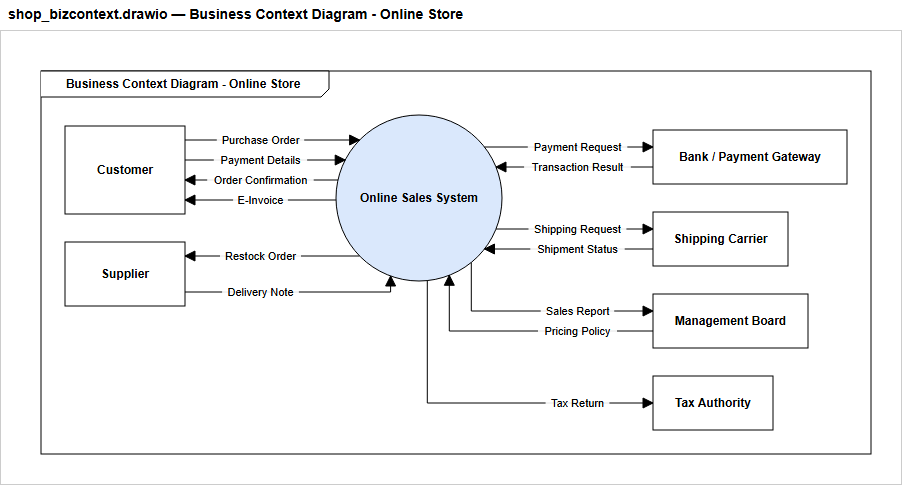
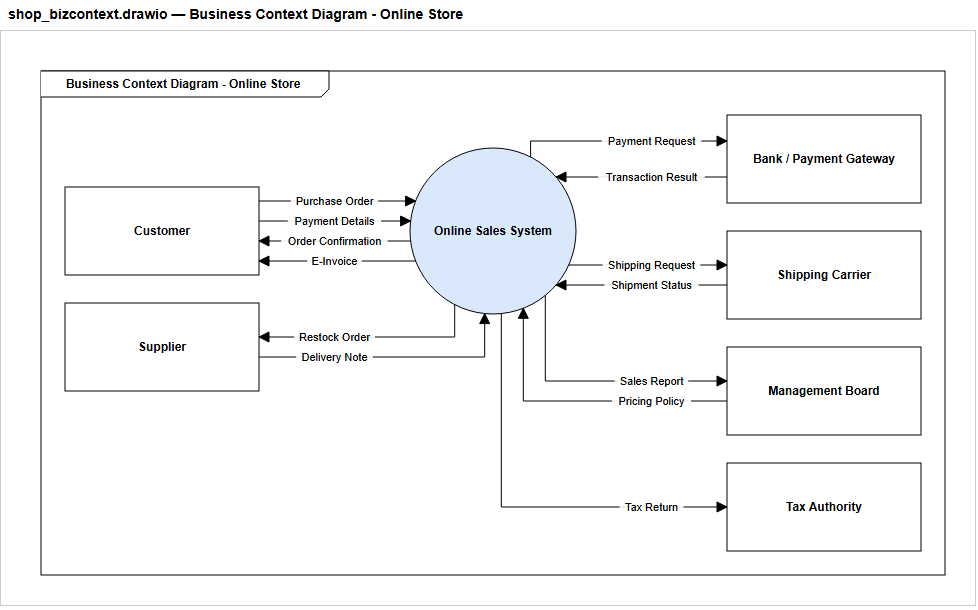
feat(bizcontext): external boxes share one size by default
Every external entity box takes the width of the widest name and the height of
the box with the most flows (layout re-solved until heights settle), flows stay
centred on each box. "uniformSize": false restores content-sized boxes.
Test, spec-format / uml-bizcontext docs and README preview updated.

Changed region(s): [[0.031, 0.092, 0.9912, 0.9509], [0.0, 0.0, 0.5265, 0.0613], [0.0, 0.9816, 1.0, 1.0]]

diff --git a/comet-uml-drawio/scripts/uml2drawio.py b/comet-uml-drawio/scripts/uml2drawio.py
@@ -1780,6 +1780,13 @@ def build_bizcontext(spec, warns, origin):
         w, h = text_size("\n".join(st + nm), 12, True)
         base_h[s["id"]] = h
         box[s["id"]] = [max(120.0, w + 28), max(54.0, h + 24), st, nm, []]
+    # mac dinh moi hop cung kich thuoc (rong/cao = hop lon nhat); "uniformSize": false -> hop vua noi dung
+    uniform = spec.get("uniformSize", True) is not False
+    if uniform and box:
+        bw = max(v[0] for v in box.values())
+        for v in box.values():
+            v[0] = bw
+    hmin = [0.0]   # chieu cao toi thieu chung cua hop (tang dan toi khi on dinh)
 
     # ---- gan duong: moi phia xet tat ca duong theo thu tu tu tren xuong (dem chung ca cot). Mot nhom lien tiep
     #      o giua (duong i..j-1) cam thang vao hong hinh tron (|y| <= BAND r); cac duong tren gap xuong cam vao
@@ -1799,7 +1806,7 @@ def build_bizcontext(spec, warns, origin):
                     if g + k in (i, j):
                         cur += SPLIT
                 o.append(cur)
-            h = max(54.0, base_h[e] + 24, cur + 28)
+            h = max(54.0, base_h[e] + 24, cur + 28, hmin[0])
             hts[e], offs[e] = h, [x - cur / 2 for x in o]
             ys += [(top + h / 2 + x, e, k) for k, x in enumerate(offs[e])]
             top += h + GY
@@ -1860,12 +1867,17 @@ def build_bizcontext(spec, warns, origin):
                     return hts, offs, cys, turn
         return None
 
-    r = math.ceil(max(60.0, th / 2 * 1.6 + 12, math.hypot(tw, th) / 2 + 14))
     while True:
-        res = {sd: solve_side(c, r) for sd, c in cols.items() if c}
-        if all(v is not None for v in res.values()):
+        r = math.ceil(max(60.0, th / 2 * 1.6 + 12, math.hypot(tw, th) / 2 + 14))
+        while True:
+            res = {sd: solve_side(c, r) for sd, c in cols.items() if c}
+            if all(v is not None for v in res.values()):
+                break
+            r += 2
+        hmax = max([h for v in res.values() for h in v[0].values()] or [0.0])
+        if not uniform or hmax <= hmin[0] + 0.01:
             break
-        r += 2
+        hmin[0] = hmax   # xep lai voi moi hop cao bang hop cao nhat
     a = b = r   # hinh tron
     cy, turn = {}, {}   # turn: (ext, j) -> x re (so duong, ca 2 phia)
     for sd, (hts, offs, cys, tn) in res.items():

diff --git a/comet-uml-drawio/tests/run_tests.py b/comet-uml-drawio/tests/run_tests.py
@@ -1016,6 +1016,20 @@ class TestGenerator(unittest.TestCase):
         _, _, G2 = self.clean(sp2)
         self.assertLessEqual(rects(G2)["thue"][2], rects(G2)["shop"][0])
 
+    def test_bizcontext_uniform_box_size(self):
+        # mac dinh moi hop ben ngoai cung rong/cao (hop lon nhat); "uniformSize": false -> hop vua noi dung
+        sp = json.loads((EXAMPLES / "shop_bizcontext.json").read_text(encoding="utf-8"))
+        ext = [e["id"] for e in sp["elements"] if e["type"] == "external"]
+        xml, _, G = self.clean(sp)
+        R = rects(G)
+        sizes = {(round(R[i][2] - R[i][0], 1), round(R[i][3] - R[i][1], 1)) for i in ext}
+        self.assertEqual(len(sizes), 1, sizes)
+        self.assertEqual(gen(sp)[0], xml)      # tat dinh
+        sp["uniformSize"] = False
+        _, _, G2 = self.clean(sp)
+        R2 = rects(G2)
+        self.assertGreater(len({(round(R2[i][2] - R2[i][0], 1), round(R2[i][3] - R2[i][1], 1)) for i in ext}), 1)
+
     def test_bizcontext_many_flows_compact(self):
         # hop co nhieu luong: hop cao ra, hinh tron chi nho vua du (luong du thi gap vao dinh/day), khong cat nhau
         els = [{"id": "s", "type": "system", "name": "Hệ thống"},

diff --git a/comet-uml-drawio/commands/uml-bizcontext/SKILL.md b/comet-uml-drawio/commands/uml-bizcontext/SKILL.md
@@ -44,7 +44,8 @@ bằng ngôn ngữ của họ.
   (không gộp), thứ tự luồng trong spec = thứ tự từ trên xuống ở cạnh hộp. Mũi tên đi ngang ra từ cạnh hộp, tên
   luồng nằm ngang trên đoạn ngang (dễ đọc); các luồng ngang tầm hình tròn cắm thẳng vào hông, luồng cao hơn /
   thấp hơn gập vuông góc một lần cắm vào đỉnh / đáy, các đường gập lồng nhau → không cắt nhau, không nhãn nào
-  đè đường/nhãn khác. Nhiều luồng thì hộp tự cao ra, hình tròn chỉ nới vừa đủ. Tên luồng nên ngắn (≤ ~6 từ);
+  đè đường/nhãn khác. Nhiều luồng thì hộp tự cao ra, hình tròn chỉ nới vừa đủ; mọi hộp
+  cùng kích thước (theo hộp lớn nhất) – `"uniformSize": false` để mỗi hộp vừa nội dung riêng. Tên luồng nên ngắn (≤ ~6 từ);
   dài quá 240px sẽ tự xuống dòng.
 - Mỗi thực thể ngoài có ít nhất 1 luồng (B3). Luồng giữa hai thực thể ngoài nằm ngoài phạm vi – bỏ.
 
